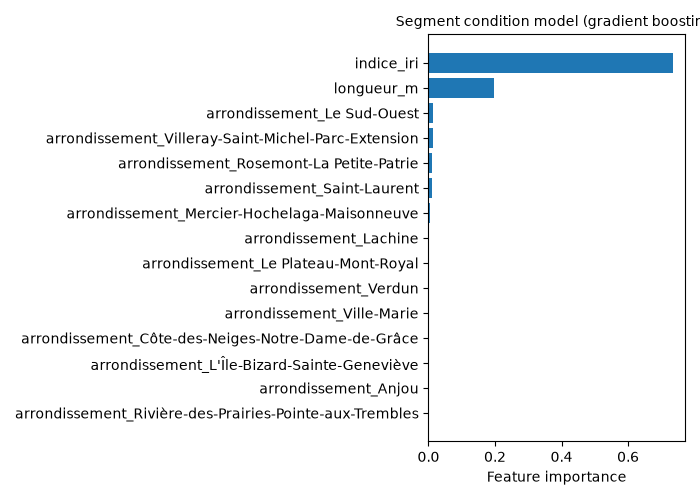
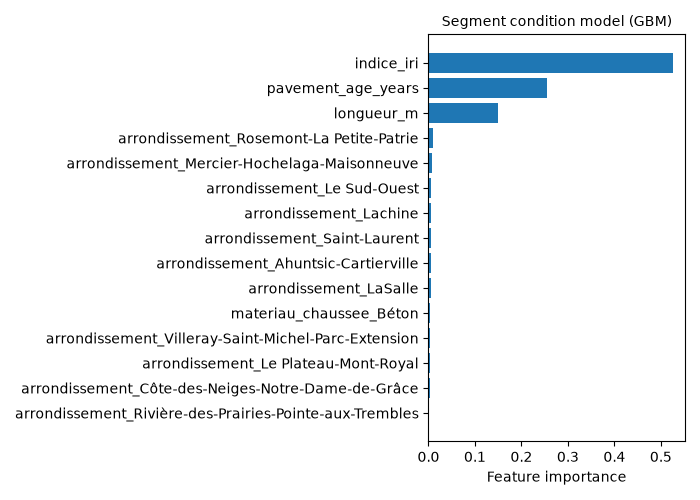
Enrich the condition model with real pavement age/material, improving R²
The first real-data model (length/borough/roughness only) predicted
poorly (test R² 0.27) because none of those features has a strong
causal link to pavement degradation. Added src/model/enrich_with_voirie_age.py,
which spatially joins each PCI segment to the City of Montreal's
separate "Voirie" road-asset survey (no shared key between the two
datasets -- different IDs, different geometry types) to pull real
construction/resurfacing dates and material.

Result: test R² 0.27 -> 0.354, MAE 15.4 -> 14.1. pavement_age_years is
now the second most important feature (material barely matters --
97.5% of surveyed streets are just asphalt). The improvement came from
a better feature, not a better algorithm or more rows -- worth stating
plainly since that's the actual lesson here.

Updated sql/schema.sql and src/db/load_to_sqlite.py for the two new
segment columns, regenerated figures, corrected a rounding error in
the README's segment 29 PCI value (68.4, not 70.1 -- was confused with
segment 12's value), and rewrote the Results section to show the
before/after comparison.

diff --git a/src/model/enrich_with_voirie_age.py b/src/model/enrich_with_voirie_age.py
@@ -1,0 +1,146 @@
+"""
+Enrich the real Montréal PCI segments with real pavement age, by spatially
+joining them to the City of Montréal's road-asset survey (Voirie), which
+carries construction/resurfacing dates -- something the PCI survey itself
+doesn't record.
+
+Why a separate join, not a shared key: the two City of Montréal datasets use
+different identifiers (PCI segments: ID_TRC; Voirie: ID_VOI_VOIRIE_AGR) and
+different geometry types (PCI: LineString road centrelines; Voirie: Polygon
+pavement footprints). There is no common key, so each PCI segment's
+geometry is matched to the Voirie polygon it actually falls inside (or
+nearest, if none) -- a real spatial relationship, not an invented one.
+
+Source: Ville de Montréal open data, "Voirie" (CC-BY 4.0).
+https://donnees.montreal.ca/dataset/voirie-actif
+"""
+from __future__ import annotations
+
+import argparse
+import zipfile
+from datetime import datetime
+from pathlib import Path
+
+import geopandas as gpd
+import pandas as pd
+import requests
+import yaml
+from shapely import wkt
+
+HEADERS = {"User-Agent": "Mozilla/5.0 (Windows NT 10.0; Win64; x64)"}
+CURRENT_YEAR = datetime.now().year
+
+# Real, drivable pavement categories in the Voirie survey (excludes
+# sidewalks, islands, etc., which aren't in this dataset's CATEGORIECHAUSSEE
+# column at all, but the column also holds a majority of NaN rows for
+# non-roadway assets we filter out here).
+ROAD_CATEGORIES = ["Rue", "Ruelle", "Autoroute", "Autoroute accotement", "Bretelle", "Bretelle accotement"]
+
+
+def load_config(path: str) -> dict:
+    with open(path, "r", encoding="utf-8") as f:
+        return yaml.safe_load(f)
+
+
+def _year_from_yyyymmdd_float(value: float) -> int | None:
+    """Dates arrive as e.g. 19580101000000.0 (YYYYMMDDHHMMSS). Just need the year."""
+    if pd.isna(value):
+        return None
+    return int(str(int(value))[:4])
+
+
+def download_voirie(url: str, cache_csv: Path) -> Path:
+    if cache_csv.exists():
+        return cache_csv
+    print(f"Downloading {url} ...")
+    resp = requests.get(url, headers=HEADERS, timeout=180)
+    resp.raise_for_status()
+    zip_path = cache_csv.with_suffix(".zip")
+    zip_path.write_bytes(resp.content)
+    with zipfile.ZipFile(zip_path) as zf:
+        name = next(n for n in zf.namelist() if n.endswith(".csv"))
+        with zf.open(name) as src, open(cache_csv, "wb") as dst:
+            dst.write(src.read())
+    zip_path.unlink()
+    return cache_csv
+
+
+def load_voirie_streets(csv_path: Path, metric_crs: str) -> gpd.GeoDataFrame:
+    cols = ["CATEGORIECHAUSSEE_REF", "DATECONSTRUCTION", "DATERESURFACAGE", "MATERIAUCHAUSSEE_REF", "GEOMETRY"]
+    # A couple of rows have a geometry field long enough to exceed the C
+    # parser's field-size limit; the python engine handles those instead of
+    # dropping the whole file.
+    df = pd.read_csv(csv_path, usecols=cols, on_bad_lines="skip", engine="python")
+    df = df[df["CATEGORIECHAUSSEE_REF"].isin(ROAD_CATEGORIES)].copy()
+
+    df["year_built"] = df["DATECONSTRUCTION"].apply(_year_from_yyyymmdd_float)
+    df["year_resurfaced"] = df["DATERESURFACAGE"].apply(_year_from_yyyymmdd_float)
+    df["pavement_age_years"] = CURRENT_YEAR - df[["year_built", "year_resurfaced"]].max(axis=1)
+
+    df["geometry"] = df["GEOMETRY"].apply(wkt.loads)
+    gdf = gpd.GeoDataFrame(
+        df[["pavement_age_years", "MATERIAUCHAUSSEE_REF", "geometry"]].rename(
+            columns={"MATERIAUCHAUSSEE_REF": "materiau_chaussee"}
+        ),
+        geometry="geometry",
+        crs="EPSG:4326",
+    )
+    return gdf.to_crs(metric_crs)
+
+
+def match_age_to_segments(segments: gpd.GeoDataFrame, voirie: gpd.GeoDataFrame) -> pd.DataFrame:
+    """For each PCI segment (LineString), find the Voirie polygon it falls
+    inside (its midpoint, to avoid edge-of-polygon ambiguity at
+    intersections); fall back to the nearest polygon within 25m for
+    segments that land in a small gap between mapped polygons."""
+    midpoints = gpd.GeoDataFrame(
+        {"seg_idx": segments.index}, geometry=segments.geometry.interpolate(0.5, normalized=True), crs=segments.crs
+    )
+
+    within = gpd.sjoin(midpoints, voirie, how="left", predicate="within")
+    missing = within[within["pavement_age_years"].isna()]["seg_idx"]
+
+    if len(missing):
+        nearest = gpd.sjoin_nearest(
+            midpoints[midpoints["seg_idx"].isin(missing)], voirie, how="left", max_distance=25, distance_col="_d"
+        )
+        # sjoin_nearest can return several equidistant ties per point -- keep one.
+        nearest = nearest.drop_duplicates(subset="seg_idx").set_index("seg_idx")
+        within = within.set_index("seg_idx")
+        within.update(nearest[["pavement_age_years", "materiau_chaussee"]])
+        within = within.reset_index()
+
+    return within.drop_duplicates(subset="seg_idx").set_index("seg_idx")[["pavement_age_years", "materiau_chaussee"]]
+
+
+def main(config_path: str):
+    cfg = load_config(config_path)
+    mcfg = cfg["model"]
+    metric_crs = cfg["geo"]["metric_crs"]
+
+    cache_csv = Path("data") / "voirie_streets_raw.csv"
+    csv_path = download_voirie(mcfg["voirie_source_url"], cache_csv)
+
+    print("Loading and filtering Voirie street polygons...")
+    voirie = load_voirie_streets(csv_path, metric_crs)
+    print(f"{len(voirie)} real street pavement polygons")
+
+    segments_path = Path(mcfg["features_path"])
+    segments = gpd.read_file(segments_path).to_crs(metric_crs)
+
+    print("Matching each PCI segment to its real pavement age...")
+    matched = match_age_to_segments(segments, voirie)
+    segments = segments.join(matched)
+
+    n_matched = segments["pavement_age_years"].notna().sum()
+    print(f"{n_matched}/{len(segments)} segments matched a real construction/resurfacing date")
+
+    segments.to_crs("EPSG:4326").to_file(segments_path, driver="GPKG")
+    print(f"Enriched {segments_path} with pavement_age_years / materiau_chaussee")
+
+
+if __name__ == "__main__":
+    ap = argparse.ArgumentParser()
+    ap.add_argument("--config", default="configs/config.yaml")
+    args = ap.parse_args()
+    main(args.config)

diff --git a/src/model/segment_model.py b/src/model/segment_model.py
@@ -1,14 +1,16 @@
 """
 Train a scikit-learn model that predicts a road segment's real Pavement
 Condition Index (PCI) from attributes available city-wide (segment length,
-borough, roughness), so segments the drone never surveyed can still get an
-estimated condition.
+borough, roughness, and now real pavement age/material), so segments the
+drone never surveyed can still get an estimated condition.
 
 Steps:
   1. Load the real Montreal PCI segment table (see
-     src.model.fetch_montreal_pci_data) -- ~16,000 real, measured segments.
-  2. Pipeline: ColumnTransformer (one-hot arrondissement, scale numeric
-     features) -> regressor.
+     src.model.fetch_montreal_pci_data, further enriched with real pavement
+     age by src.model.enrich_with_voirie_age) -- ~16,000 real, measured
+     segments.
+  2. Pipeline: ColumnTransformer (one-hot arrondissement + material, scale
+     numeric features) -> regressor.
   3. Compare RandomForestRegressor vs GradientBoostingRegressor with
      cross-validation, then tune the winner with GridSearchCV.
   4. Evaluate the tuned model on a held-out test split (MAE / RMSE / R2) and
@@ -37,8 +39,8 @@ from sklearn.model_selection import GridSearchCV, cross_val_score, train_test_sp
 from sklearn.pipeline import Pipeline
 from sklearn.preprocessing import OneHotEncoder, StandardScaler
 
-NUMERIC_FEATURES = ["longueur_m", "indice_iri"]
-CATEGORICAL_FEATURES = ["arrondissement"]
+NUMERIC_FEATURES = ["longueur_m", "indice_iri", "pavement_age_years"]
+CATEGORICAL_FEATURES = ["arrondissement", "materiau_chaussee"]
 TARGET = "indice_pci"
 
 
@@ -79,12 +81,15 @@ def real_features_for_surveyed_segments(
 
     rows = []
     for seg_id, g in joined.groupby("seg_id"):
+        g_age = g.dropna(subset=["pavement_age_years"])
         rows.append(
             {
                 "seg_id": seg_id,
                 "longueur_m": weighted_avg(g, "longueur_m"),
                 "indice_iri": weighted_avg(g, "indice_iri"),
+                "pavement_age_years": weighted_avg(g_age, "pavement_age_years") if len(g_age) else np.nan,
                 "arrondissement": g["arrondissement"].mode().iat[0],
+                "materiau_chaussee": g["materiau_chaussee"].mode().iat[0],
                 "real_indice_pci": weighted_avg(g, "indice_pci"),
                 "n_real_segments_matched": len(g),
             }
@@ -99,7 +104,7 @@ def main(config_path: str):
     out_dir = Path(mcfg["out_dir"])
     out_dir.mkdir(parents=True, exist_ok=True)
 
-    df = gpd.read_file(mcfg["features_path"])
+    df = gpd.read_file(mcfg["features_path"]).dropna(subset=NUMERIC_FEATURES + CATEGORICAL_FEATURES)
     X = df[NUMERIC_FEATURES + CATEGORICAL_FEATURES]
     y = df[TARGET]
     X_train, X_test, y_train, y_test = train_test_split(
@@ -153,7 +158,8 @@ def main(config_path: str):
     plt.figure(figsize=(7, 5))
     plt.barh([feature_names[i] for i in order][::-1], importances[order][::-1])
     plt.xlabel("Feature importance")
-    plt.title(f"Segment condition model ({best_name.replace('_', ' ')})", fontsize=10)
+    model_abbrev = {"random_forest": "Random Forest", "gradient_boosting": "GBM"}[best_name]
+    plt.title(f"Segment condition model ({model_abbrev})", fontsize=10)
     plt.tight_layout()
     plt.savefig(out_dir / "feature_importance.png")
     print(f"Feature importance plot -> {out_dir / 'feature_importance.png'}")

diff --git a/src/db/load_to_sqlite.py b/src/db/load_to_sqlite.py
@@ -30,17 +30,21 @@ def load_config(path: str) -> dict:
 
 def build_segments(cfg: dict) -> pd.DataFrame:
     """Geometry comes from road_segments.gpkg (seg_id + shape only); the real
-    attributes (arrondissement, length, roughness) live in
-    surveyed_vs_predicted.csv -- matched in from the City of Montreal's real
-    segments in segment_model.py. Join them on seg_id.
+    attributes (arrondissement, length, roughness, pavement age/material)
+    live in surveyed_vs_predicted.csv -- matched in from two separate City
+    of Montreal surveys in segment_model.py. Join them on seg_id.
     """
     geom = gpd.read_file(cfg["geo"]["segments_path"])
     attrs = pd.read_csv(Path(cfg["model"]["out_dir"]) / "surveyed_vs_predicted.csv")
-    attrs = attrs[["seg_id", "arrondissement", "longueur_m", "indice_iri"]]
+    attrs = attrs[
+        ["seg_id", "arrondissement", "longueur_m", "indice_iri", "pavement_age_years", "materiau_chaussee"]
+    ]
 
     segments = geom.merge(attrs, on="seg_id", how="left")
     segments["geometry_wkt"] = segments["geometry"].apply(lambda g: g.wkt)
-    return segments[["seg_id", "arrondissement", "longueur_m", "indice_iri", "geometry_wkt"]]
+    return segments[
+        ["seg_id", "arrondissement", "longueur_m", "indice_iri", "pavement_age_years", "materiau_chaussee", "geometry_wkt"]
+    ]
 
 
 def build_detections(cfg: dict) -> pd.DataFrame:

diff --git a/README.md b/README.md
@@ -137,14 +137,19 @@ explainable by design, easy to defend to a non-technical stakeholder.
 
 **7. Segment condition model (scikit-learn).** Trained on the City of Montréal's real, measured
 pavement condition survey — ~16,000 segments city-wide, with a real Pavement Condition Index
-(PCI) per segment ([`fetch_montreal_pci_data.py`](src/model/fetch_montreal_pci_data.py)). A
-`ColumnTransformer` (one-hot borough, scaled numeric features) feeds a regressor inside a
-`Pipeline`. Random Forest and Gradient Boosting are compared with 5-fold cross-validation, the
-winner is tuned with `GridSearchCV`, and feature importances are extracted — the standard
-"compare → tune → explain" workflow for tabular ML
-([`segment_model.py`](src/model/segment_model.py)). The 32 drone-surveyed demo segments are then
-spatially matched to the real Montréal segments that overlap them, so they inherit real
-attributes *and* a real ground-truth PCI to compare against — see [Results](#results).
+(PCI) per segment ([`fetch_montreal_pci_data.py`](src/model/fetch_montreal_pci_data.py)). Since
+the PCI survey alone predicts poorly (length/borough/roughness aren't very descriptive of *why*
+a road degrades), each segment is further enriched with its real construction/resurfacing date
+and material, spatially joined from Montréal's separate "Voirie" road-asset survey — the two
+datasets share no common key
+([`enrich_with_voirie_age.py`](src/model/enrich_with_voirie_age.py)). A `ColumnTransformer`
+(one-hot borough + material, scaled numeric features) feeds a regressor inside a `Pipeline`.
+Random Forest and Gradient Boosting are compared with 5-fold cross-validation, the winner is
+tuned with `GridSearchCV`, and feature importances are extracted — the standard "compare → tune
+→ explain" workflow for tabular ML ([`segment_model.py`](src/model/segment_model.py)). The 32
+drone-surveyed demo segments are then spatially matched to the real Montréal segments that
+overlap them, so they inherit real attributes *and* a real ground-truth PCI to compare against
+— see [Results](#results).
 
 **8. QGIS export.** Scored segments and hotspots are written as two layers of one GeoPackage
 ([`export_qgis.py`](src/geo/export_qgis.py)), ready for graduated symbology in QGIS.
@@ -173,7 +178,7 @@ pothole, repair. Datasets are **not** committed — see [`data/README.md`](data/
 | Street network & segment boundaries | **Real** — [`fetch_osm_network.py`](src/geo/fetch_osm_network.py) pulls every real drivable street (32 segments, 15 named streets) in a Montréal neighbourhood near Polytechnique from OpenStreetMap. Each segment is a real OSM way, the same block-to-block granularity the City of Montréal uses for its own PCI survey — not an arbitrary division. |
 | GPS coordinates on the "survey" images | **Synthetic** — UAV-PDD2023 images carry no GPS EXIF (they're research crops, not flight photos). [`generate_synthetic_survey.py`](src/data/generate_synthetic_survey.py) assigns each test image a random point on a random real segment (weighted by segment length) — a fake flight, over real streets. |
 | Road segment *attributes* (length, borough, roughness) | **Real** — [`segment_model.py`](src/model/segment_model.py) spatially matches each of the 32 demo segments to the real City of Montréal segments that overlap it and inherits their measured values. |
-| Segment condition model's training data | **Real** — [`fetch_montreal_pci_data.py`](src/model/fetch_montreal_pci_data.py) downloads ~16,000 real, measured segments (Pavement Condition Index) from the City of Montréal's open data portal. No synthetic/formula-based data remains in this project. |
+| Segment condition model's training data | **Real** — [`fetch_montreal_pci_data.py`](src/model/fetch_montreal_pci_data.py) downloads ~16,000 real, measured segments (Pavement Condition Index) from the City of Montréal's open data portal, enriched with real pavement age/material by [`enrich_with_voirie_age.py`](src/model/enrich_with_voirie_age.py) (a second, separately sourced City of Montréal survey, spatially joined — no shared key). No synthetic/formula-based data remains in this project. |
 | Ground truth for the 32 demo segments | **Real** — the City of Montréal's own PCI rating for those exact streets, used as an independent check on both the drone-based score and the model's prediction. |
 
 This is disclosed here instead of hidden because the whole point of the project is the
@@ -245,27 +250,32 @@ meant to do, finding real, spatially distinct concentrations of damage.
 
 ### Segment condition model
 
-5-fold cross-validated R² on ~13,000 real Montréal segments (Longueur, Arrondissement, Indice
-IRI → Indice PCI), before and after tuning:
+**First pass** — length, borough, and roughness only — gave a modest CV R² of 0.29 (Gradient
+Boosting) and a test R² of 0.27. Predicting real pavement condition from so little was always
+going to be hard: none of those three features has a strong *causal* link to why a road
+degrades. So a second real dataset was added — the City of Montréal's separate "Voirie"
+road-asset survey, spatially joined in (no shared key) to pull each segment's real
+construction/resurfacing date (→ pavement age) and material
+([`enrich_with_voirie_age.py`](src/model/enrich_with_voirie_age.py)):
 
-| Model | CV R² |
-|---|---|
-| Random Forest | 0.192 |
-| Gradient Boosting (selected) | 0.291 |
+| Model | CV R² — length/borough/roughness only | CV R² — + real pavement age/material |
+|---|---|---|
+| Random Forest | 0.192 | 0.345 |
+| Gradient Boosting (selected) | 0.291 | **0.370** |
 
-Tuned Gradient Boosting (`learning_rate=0.05`, `n_estimators=300`) on the held-out test split
-(~3,300 real segments): **MAE 15.4, RMSE 18.8, R² 0.273**.
-
-These numbers are far lower than a model would get on a formula-generated target, and that's the
-point: predicting a city's real, measured pavement condition from just length/borough/roughness
-is a genuinely hard problem — real PCI also depends on material, maintenance history, and traffic
-loading, none of which are in this feature set. An R² of 0.27 on a held-out real test set is a
-credible result for this feature set, not a broken model.
+Tuned Gradient Boosting (`learning_rate=0.1`, `n_estimators=300`) on the held-out test split
+(~3,300 real segments): **MAE 14.1, RMSE 17.5, R² 0.354** — up from R² 0.27. Adding one genuinely
+causal real feature (pavement age) moved the needle more than switching algorithms or tuning
+hyperparameters did. Still not a "field-ready" model — real PCI also depends on maintenance
+history and traffic loading, which aren't in this data either — but the improvement is honest
+and explainable, which matters more here than the absolute number.
 
 ![Feature importance](figures/feature_importance.png)
 
-`indice_iri` (roughness) dominates, which makes physical sense — it's the closest available
-proxy for surface condition; individual boroughs barely move the prediction on their own.
+`indice_iri` (roughness) still dominates, but `pavement_age_years` is now the clear second
+feature — exactly the causal signal that was missing before. `materiau_chaussee` barely moves
+the needle, which also makes sense: 97.5% of the surveyed streets are simply asphalt, so there's
+almost no variation for the model to learn from.
 
 ### Three ways to score the same segments
 
@@ -278,9 +288,9 @@ higher is worse), the tabular model's `predicted_score` (same scale), and the ci
 measured PCI (0–100, higher is *better* — a different, bounded scale, so it gets its own panel).
 
 They don't fully agree, and the clearest case is **segment 24**: the drone found *zero*
-detections there (nothing to flag), yet its real PCI is 18.9 — "très mauvais," one of the worst
+detections there (nothing to flag), yet its real PCI is 18.6 — "très mauvais," one of the worst
 in the whole neighbourhood. Contrast that with **segment 29**, also zero detections, but a real
-PCI of 70.1 — genuinely good condition. Same drone-based signal (nothing detected), opposite
+PCI of 68.4 — decent condition. Same drone-based signal (nothing detected), opposite
 ground truth. That's the honest limit of a crack/pothole detector as a condition proxy: it
 scores what's visible in a photo, while the city's PCI also captures rutting, patching, and ride
 roughness that a photo of the surface alone won't show. Reporting this divergence is more useful
@@ -404,7 +414,10 @@ python -m src.geo.aggregate_to_segments --config configs/config.yaml
 # 6a. Download the real Montréal pavement condition survey (~16,000 segments)
 python -m src.model.fetch_montreal_pci_data --config configs/config.yaml
 
-# 6b. Train the scikit-learn condition model & predict per-segment condition
+# 6b. Enrich it with real pavement age/material (spatial join, no shared key)
+python -m src.model.enrich_with_voirie_age --config configs/config.yaml
+
+# 6c. Train the scikit-learn condition model & predict per-segment condition
 python -m src.model.segment_model --config configs/config.yaml
 
 # 7. Export a QGIS-ready GeoPackage (segment_priority + distress_hotspots layers)
@@ -430,6 +443,7 @@ pavement-distress-drone/
 │   ├── train/train.py                # train the YOLO detector
 │   ├── inference/detect.py           # run detection on new imagery
 │   ├── model/fetch_montreal_pci_data.py  # download real City of Montréal PCI segments
+│   ├── model/enrich_with_voirie_age.py   # spatially join real pavement age/material
 │   ├── model/segment_model.py        # scikit-learn tabular condition model
 │   ├── reporting/make_figures.py     # regenerate README figures from outputs/
 │   └── geo/

diff --git a/data/README.md b/data/README.md
@@ -12,12 +12,19 @@ Multi-national road-damage dataset that includes a UAV/drone subset
 (`RDD2022_*_Drone`). Available via the arXiv paper 2209.08538 and its repository.
 
 ## Road segments (for aggregation)
-Provide a line-geometry layer of the road network you surveyed as
-`data/road_segments.gpkg` (GeoPackage) or update `geo.segments_path` in the config.
-For Québec roads, MTQ / open-data road-network layers work well.
+`data/road_segments.gpkg` is downloaded automatically by `src.geo.fetch_osm_network` from
+OpenStreetMap (Overpass API) — every real drivable street in a small Montréal neighbourhood.
+No manual step needed unless you want to survey a different area (pass `--bbox`).
 
 ## Montréal pavement condition (real training data for the segment model)
 `data/montreal_pci_segments.gpkg` is downloaded automatically by
 `src.model.fetch_montreal_pci_data` from the City of Montréal's open data portal
-(~16,000 real segments with a measured Pavement Condition Index). Source:
-https://donnees.montreal.ca/dataset/condition-chaussees-reseau-routier (CC-BY 4.0).
+(~16,000 real segments with a measured Pavement Condition Index), then enriched in place by
+`src.model.enrich_with_voirie_age` with real pavement age (construction/resurfacing date) and
+material, spatially joined from Montréal's "Voirie" road-asset survey (no shared key between
+the two datasets — see that script's docstring). Sources (both CC-BY 4.0):
+- https://donnees.montreal.ca/dataset/condition-chaussees-reseau-routier
+- https://donnees.montreal.ca/dataset/voirie-actif
+
+`data/voirie_streets_raw.csv` (~340 MB) is cached here after the first download so re-running
+`enrich_with_voirie_age` doesn't re-download it.
